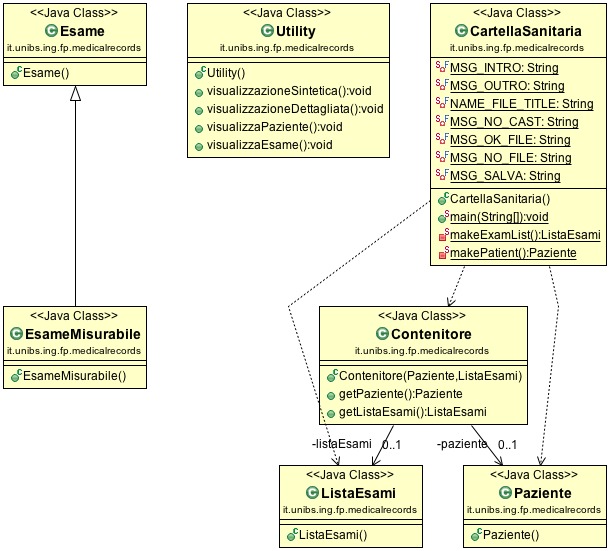
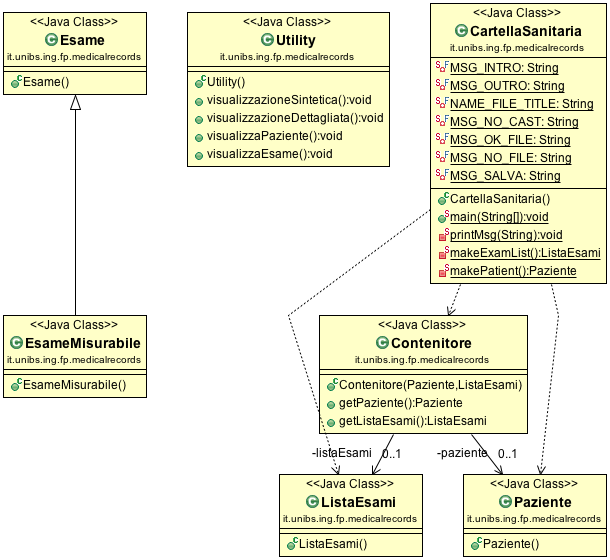
Rimosso Class Hello e Update UML

diff --git a/src/it/unibs/ing/fp/medicalrecords/CartellaSanitaria.java b/src/it/unibs/ing/fp/medicalrecords/CartellaSanitaria.java
@@ -1,7 +1,6 @@
 package it.unibs.ing.fp.medicalrecords;
 
 import java.io.File;
-import it.unibs.ing.fp.hello.Hello;
 import it.unibs.ing.fp.library.OutputData;
 
 public class CartellaSanitaria {
@@ -16,6 +15,8 @@ public class CartellaSanitaria {
 	private static final String MSG_SALVA = "SALVATAGGIO DATI";
 	
 	public static void main(String[] args) {
+		printMsg(MSG_INTRO);
+		
 		File fileCartellaSanitaria = new File(NAME_FILE_TITLE);
 	  
 		Paziente paziente = null;
@@ -61,7 +62,10 @@ public class CartellaSanitaria {
 		contenitore = new Contenitore(paziente, listaEsami);
 		OutputData.uploadSingleObject(fileCartellaSanitaria, contenitore);
 	
-		Hello.sayHello(MSG_OUTRO);
+		printMsg(MSG_OUTRO);
+	}
+	private static void printMsg(String msg) {
+		System.out.println(msg);
 	}
 
 	private static ListaEsami makeExamList() {
